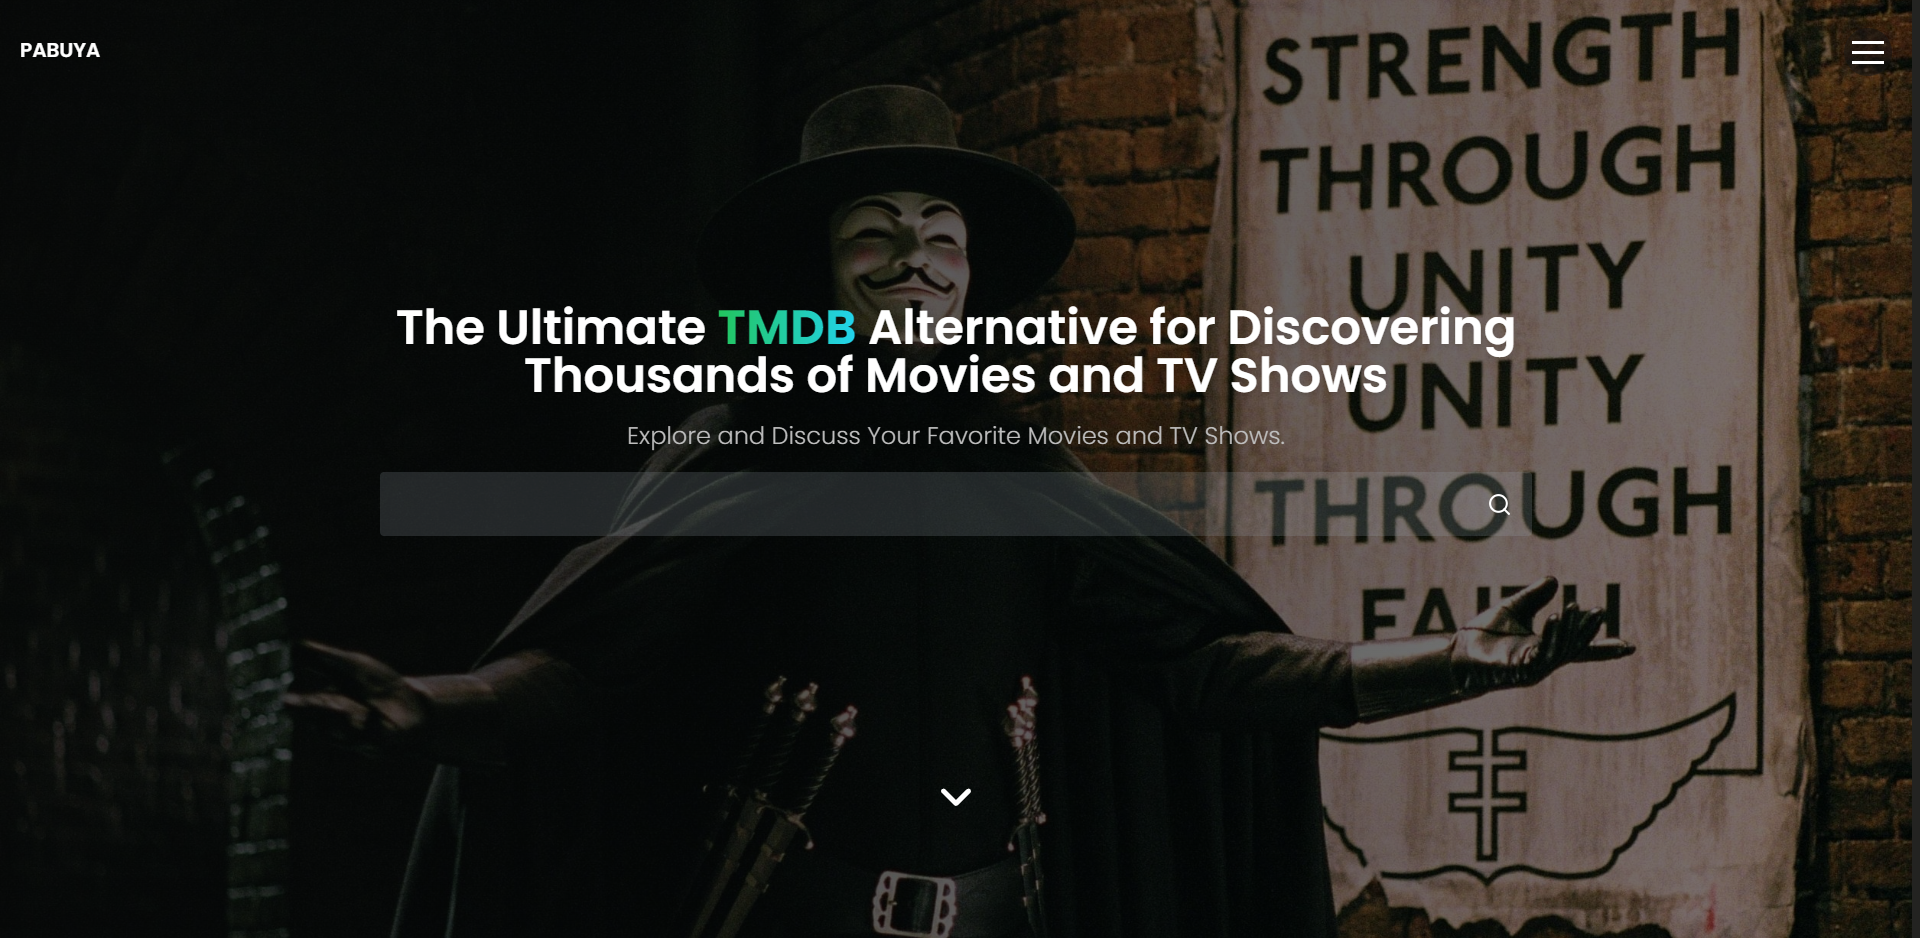
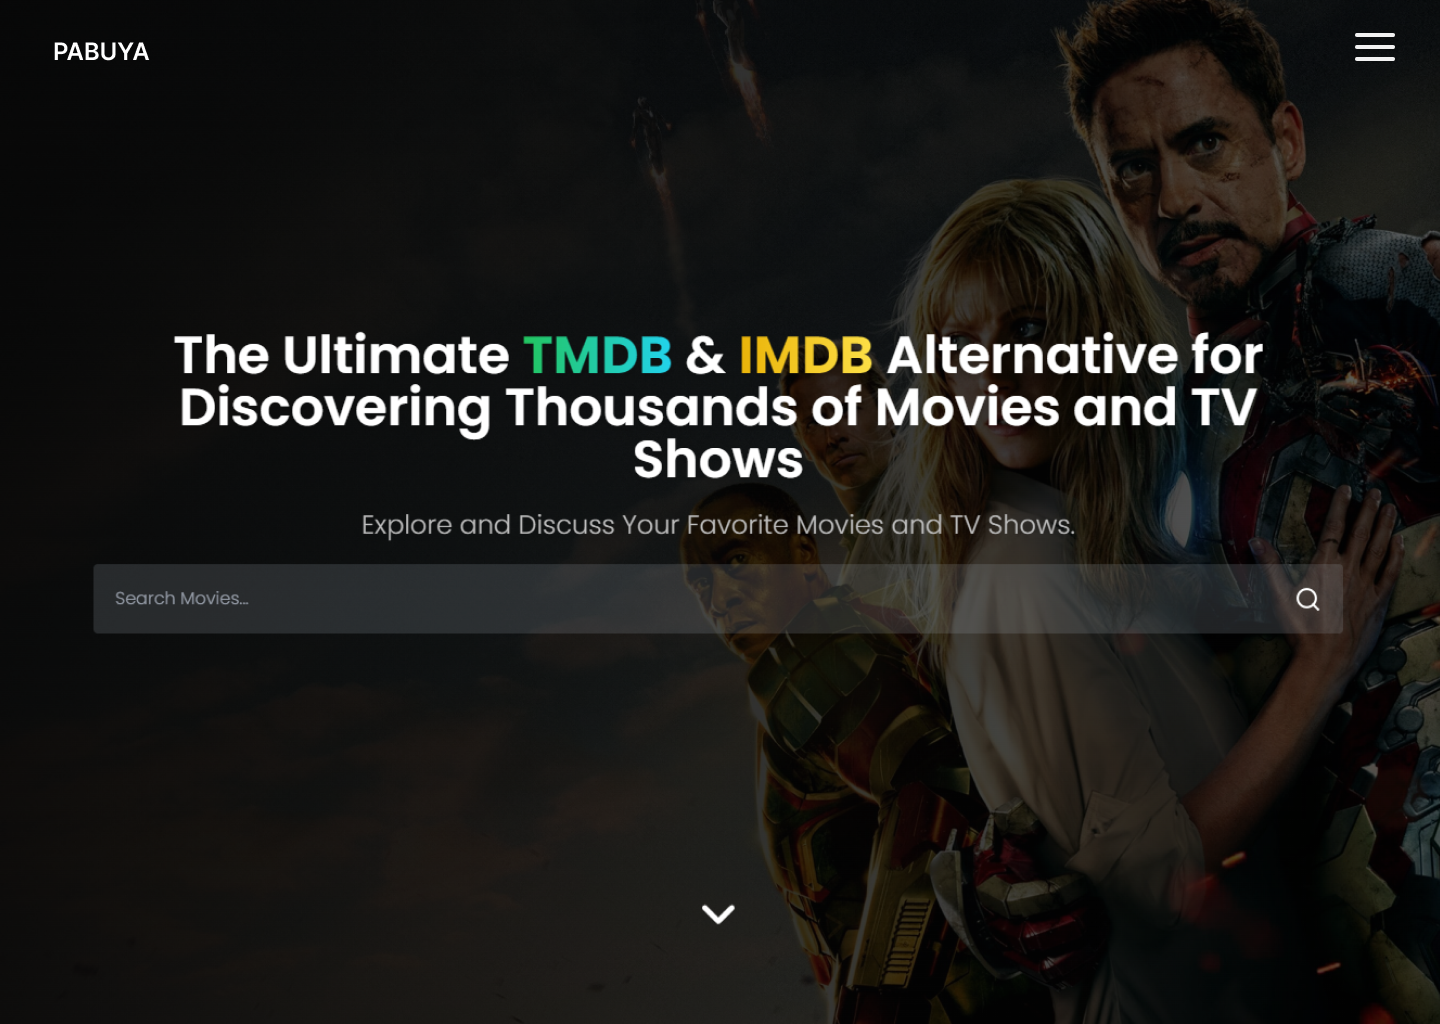
update project parts

diff --git a/constants/home.js b/constants/home.js
@@ -67,7 +67,7 @@ export const heroData = {
   name: "Cesar Pizarra",
   subheading: "Let's build something great together!",
   description:
-    "I'm an aspiring front-end web developer passionate about bringing innovative and accessible web designs to life.",
+    "I'm an aspiring  Web Developer passionate about bringing innovative and accessible web designs to life.",
 };
 
 export const aboutData = {
@@ -168,8 +168,8 @@ export const projects = [
   {
     title: "Pabuya",
     description:
-      "The Ultimate TMDB Alternative for Discovering Thousands of Movies and TV Shows",
-    techsUsed: ["React", "TypeScript", "Tailwind", "TMDB API"],
+      "The Ultimate TMDB & IMDB Alternative for Discovering Thousands of Movies and TV Shows",
+    techsUsed: ["React", "TypeScript", "Tailwind", "TMDB + IMDB API"],
     image: "pabuya.png",
     liveUrl: "https://pabuya.vercel.app/",
     githubUrl: "https://github.com/cesarpizarra/pabuya",

diff --git a/pages/projects.jsx b/pages/projects.jsx
@@ -100,7 +100,7 @@ const projects = () => {
                         target="_blank"
                         rel="noopener noreferrer"
                       >
-                        Take a look
+                        take a look
                         <HiOutlineExternalLink size={20} />
                       </motion.a>
                       <motion.a

diff --git a/components/sections/Projects.jsx b/components/sections/Projects.jsx
@@ -74,7 +74,7 @@ const Projects = () => {
                   target="_blank"
                   rel="noopener noreferrer"
                 >
-                  Take a look
+                  take a look
                   <HiOutlineExternalLink size={20} />
                 </motion.a>
                 <motion.a
